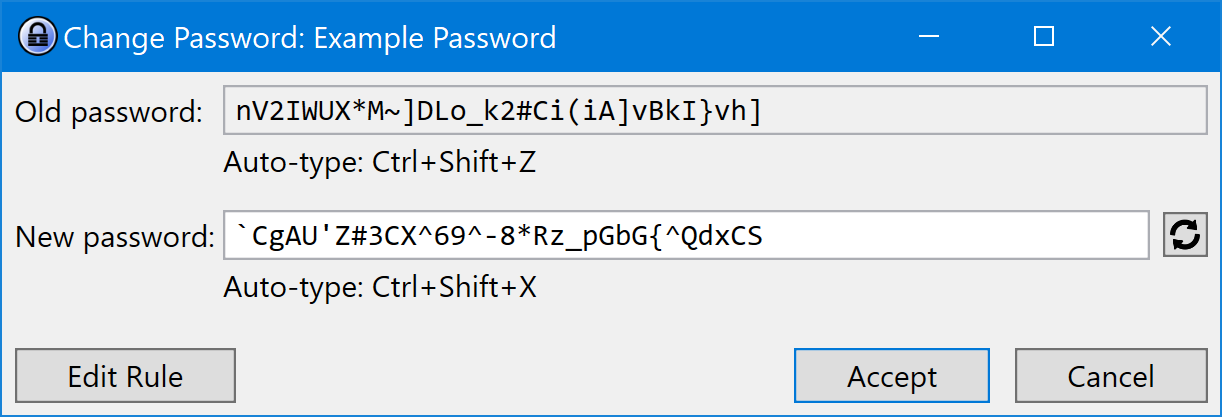
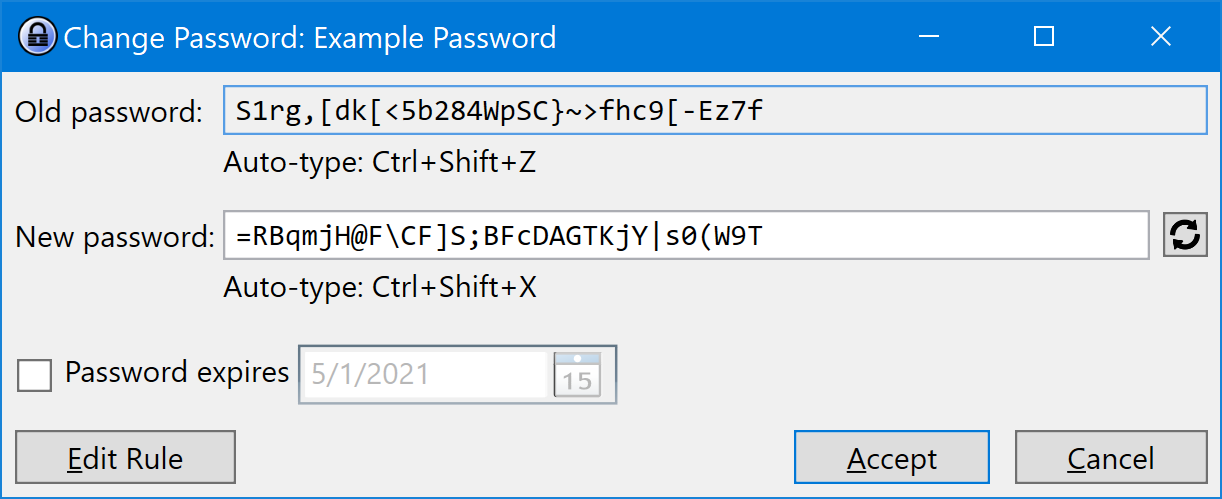
Update README

diff --git a/README.md b/README.md
@@ -5,7 +5,7 @@ The strongest passwords are randomly generated. However, some services unwisely 
 
 The [password generator](https://keepass.info/help/base/pwgenerator.html) in KeePass helps with these challenges, but it can still be difficult to configure it to exactly meet the requirements of each service while keeping passwords as strong as possible.
 
-The purpose of this plugin is to make it easy to tell KeePass how to generate a password for each service, and to streamline the process of changing passwords.
+The purpose of this plugin is to make it easy to tell KeePass how to generate a password for each service and to streamline the process of changing passwords.
 
 ## Installation
 To install this plugin, download the latest version from the [Releases](https://github.com/ihanson/KeePass-Rule-Builder/releases) page and copy it into your KeePass installation’s Plugins directory. See the [KeePass documentation](https://keepass.info/help/v2/plugins.html) for more help.
@@ -16,11 +16,11 @@ To change a password for an entry in KeePass, right-click the password entry and
 
 <img src="Images/menu.png" alt="Context menu with “Generate New Password” selected" width="583.6">
 
-The Change Password window will open. This window shows the current password as well as a new randomly generated password. Copy those passwords into the appropriate fields where you are setting the password. You can also use the hotkeys **Ctrl+Shift+Z** and **Ctrl+Shift+X** to auto-type the old and new passwords, respectively.
+The Change Password window will open. This window shows the current password as well as a new randomly generated password. Copy those passwords into the appropriate fields where you are setting the password. You can also use the hotkeys **Ctrl+Shift+Z** and **Ctrl+Shift+X** to auto-type the old and new passwords, respectively. If you want to set an expiration date, you can do that here.
 
 <img src="Images/change.png" alt="Change Password window" width="488.8">
 
-Once the password has been successfully changed, click **Accept** to store the new password into the KeePass database. Every time you change the password, the old password will be backed up in the entry’s [history](https://keepass.info/help/v2/entry.html#history).
+Once you have successfully changed the password, click **Accept** to store the new password into the KeePass database. Every time you change the password, the old password will be backed up in the entry’s [history](https://keepass.info/help/v2/entry.html#history).
 
 ### Password rules
 By default, this tool will generate a new password based on the **Automatically generated passwords for new entries** profile in KeePass. You should [configure this profile](https://keepass.info/help/base/pwgenerator.html#configauto) to produce a very strong password. However, for services for which the passwords generated by this profile are [*too* strong](https://twitter.com/PWTooStrong), the plugin can help you generate a password according to each service’s individual password policy.
@@ -41,20 +41,32 @@ Let’s say that a website requires passwords with the following properties:
 - A password must contain at least one letter.
 - A password must contain at least one digit.
 - A password may contain special characters, from the character set `!@#$%^&*()`.
+- Passwords must be changed every 18 months.
 
-As shown in the screenshot below, we will first enter a **Length** of *20*, the maximum password length. (There is no point in generating a password shorter than the maximum length.) Then click the **Add Character Set** button to add the built-in **Letters** and **Digits** character sets, and specify that both of them are **Required**. Click **Add Character Set** again to select a **Custom** character set, which you can then populate with the “special characters” listed in the password requirements.
+As shown in the screenshot below, we will first enter a **Length** of *20*, the maximum password length. (There is no point in generating a password shorter than the maximum length.) Then click the **Add Character Set** button to add the built-in **Letters** and **Digits** character sets, and specify that both of them are **Required**. Click **Add Character Set** again to select a **Custom** character set, which you can then populate with the “special characters” listed in the password requirements. Finally, indicate that a password generated from this rule expires after 18 months.
 
 <img src="Images/rule.png" alt="The Password Rule dialog with the Rule option selected" width="388.8">
 
-Other options available in the Add Character Set menu are **All characters**, **Punctuation**, **Uppercase letters** and **Lowercase letters**. If the service for which you are generating a password requires that a password *not* contain certain characters, you can enter those into the **Exclude** field.
+Other options available in the Add Character Set menu are **All characters**, **Punctuation**, **Uppercase letters**, and **Lowercase letters**. If the service for which you are generating a password requires that a password *not* contain certain characters, you can enter those into the **Exclude** field.
 
 <img src="Images/charsets.png" alt="The Add Character Set menu" width="299.6">
 
-At the bottom of the Password Rule dialog, the **Example** line shows a sample password that follows the rule or profile that you have selected. (This is not the same password that will be set to the password entry when you save it.)
+The **Example** field in the Edit Rule window shows a sample password that follows the rule or profile that you have selected. (This is not the same password that will be set to the password entry when you save it.)
+
+The [password strength](https://en.wikipedia.org/wiki/Password_strength) is calculated from the configured rule (not the generated password). Every additional bit of strength represents a doubling of the expected time it would take for a hacker to guess the password by brute force.
 
 Once you have finished entering the password requirements, click **Accept**. If you were editing the rule from the Change Password window, a new password will automatically be generated using your new rule. Follow the steps above to save this password.
 
-Any time you need to generate another password, just use the Generate New Password menu item. It will automatically use the rule that you have set for that entry.
+Any time you need to generate another password, just use the Generate New Password menu item. It will automatically use the rule and expiration date that you have set for that entry.
+
+### Other features
+You can access this plugin’s features from the password generation menu in the standard KeePass editor window. Click **Generate From Rule** to generate a new password based on the entry’s configured rule, or click **Edit Password Rule** to edit the rule.
+
+<img src="Images/entry.png" alt="The Add Entry dialog with the Generate From Rule and Edit Password Rule menu items visible" width="790.8">
+
+A rule can be configured for a group of entries. This option is available in the context menu of the group. If a group has a rule configured, all entries in that group will use that rule when a password is generated, unless the rule is overridden in the entry itself.
+
+<img src="Images/group.png" alt="The group context menu with the Edit Password Rule menu item visible" width="294.8">
 
 ---
-<span style="font-size: 80%">Icons made by [Freepik](https://www.flaticon.com/authors/freepik "Freepik") from [www.flaticon.com](https://www.flaticon.com/ "Flaticon")</span>
+Icons made by [Freepik](https://www.flaticon.com/authors/freepik "Freepik") from [www.flaticon.com](https://www.flaticon.com/ "Flaticon")
